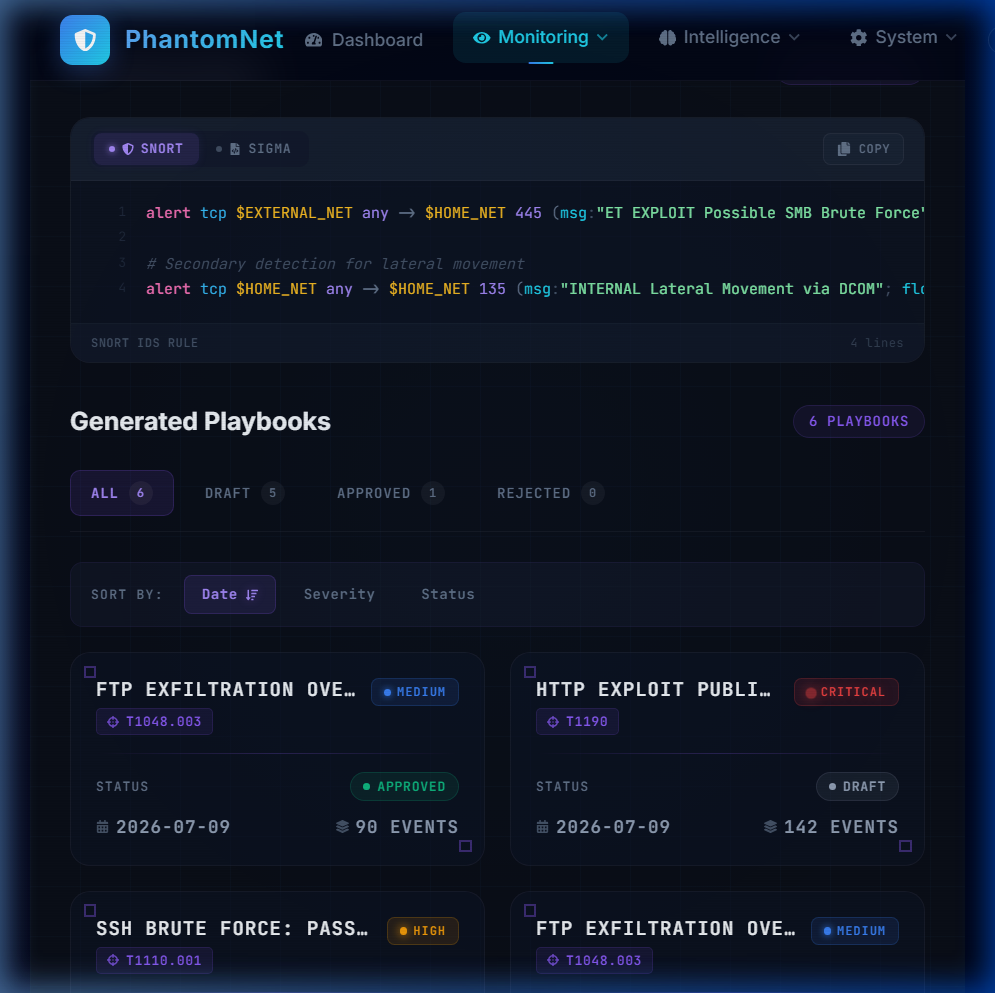
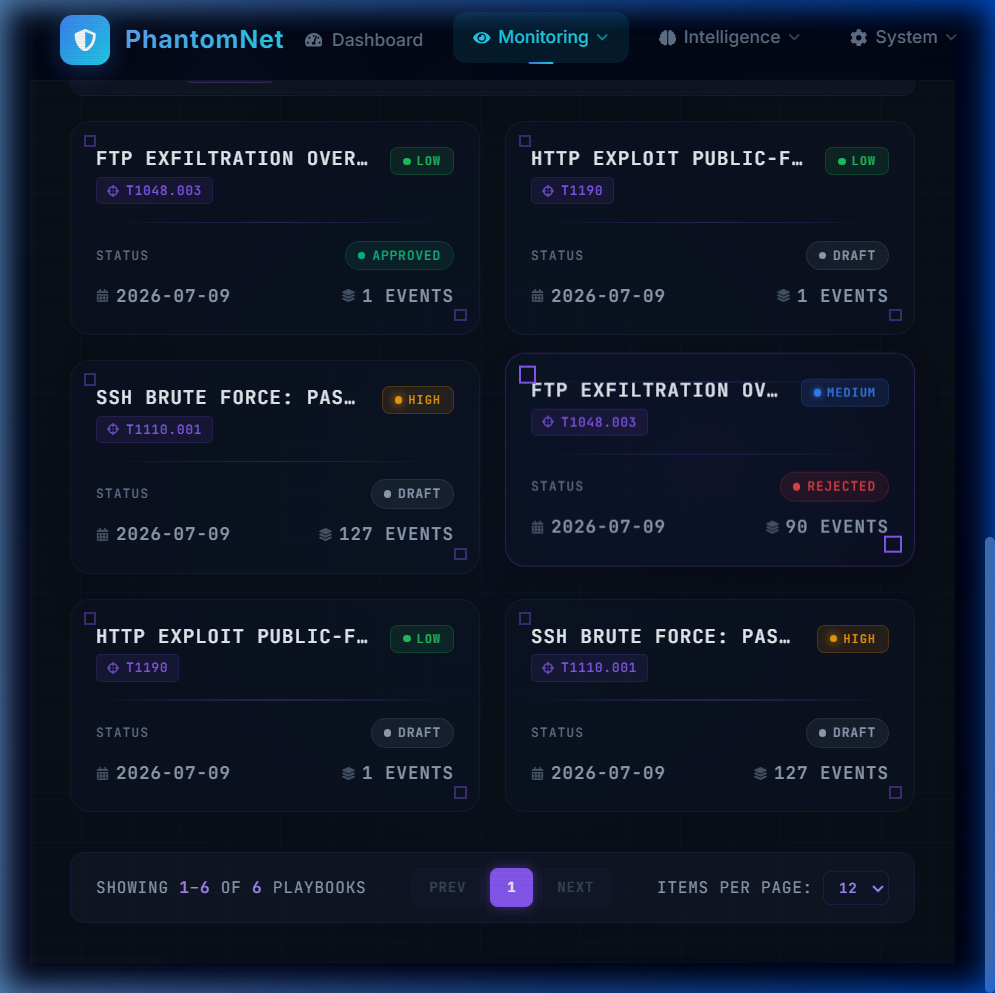
Merge pull request #794 from sriram21-09/feat/sentinel-screenshots-docs
Feat/sentinel screenshots docs

Pull request: Feat/sentinel screenshots docs

diff --git a/README.md b/README.md
@@ -265,6 +265,31 @@ Each playbook gets a composite confidence score (0.0-1.0) from four signals:
 | `/api/sentinel/rules/snort` | GET | List generated Snort rules |
 | `/api/sentinel/rules/sigma` | GET | List generated Sigma rules |
 
+### Sentinel Dashboard Interface & Workflows
+
+Below are screenshots of the **Sentinel Dashboard** showcasing the interface components, interactive features, rule previews, and incident response approval workflows:
+
+#### 1. Main Dashboard & Stats Widgets
+Shows the aggregate pipeline statistics (total/approved/pending counts, average confidence score) alongside the real-time playbook list:
+![Sentinel Dashboard Main List View](docs/screenshots/sentinel_dashboard.png)
+![Sentinel Dashboard Stats Widgets](docs/screenshots/sentinel_stats_widgets.png)
+
+#### 2. Playbook Viewer & Rule Previews
+Analysts can review the generated Markdown playbooks or inspect the auto-generated detection rules within tabbed views:
+![Playbook Viewer Modal](docs/screenshots/sentinel_playbook_viewer.png)
+![Snort Rule Preview Tab](docs/screenshots/sentinel_rule_preview_snort.png)
+![Sigma Rule Preview Tab](docs/screenshots/sentinel_rule_preview_sigma.png)
+
+#### 3. Approval Workflow (Before / After States)
+The state transition during active analyst review (pending -> approved) with real-time status and color updates:
+| Pending Verification (Before) | Approved State (After) |
+|---|---|
+| ![Workflow Before](docs/screenshots/sentinel_workflow_before.png) | ![Workflow After](docs/screenshots/sentinel_workflow_after.png) |
+
+#### 4. Navigation & Alerting Badges
+The main navigation header features a dynamic notification badge that alerts SOC analysts of pending playbooks waiting for review:
+![Navigation Notification Badge](docs/screenshots/sentinel_nav_badge.png)
+
 ---
 
 ## 🔧 Tech Stack